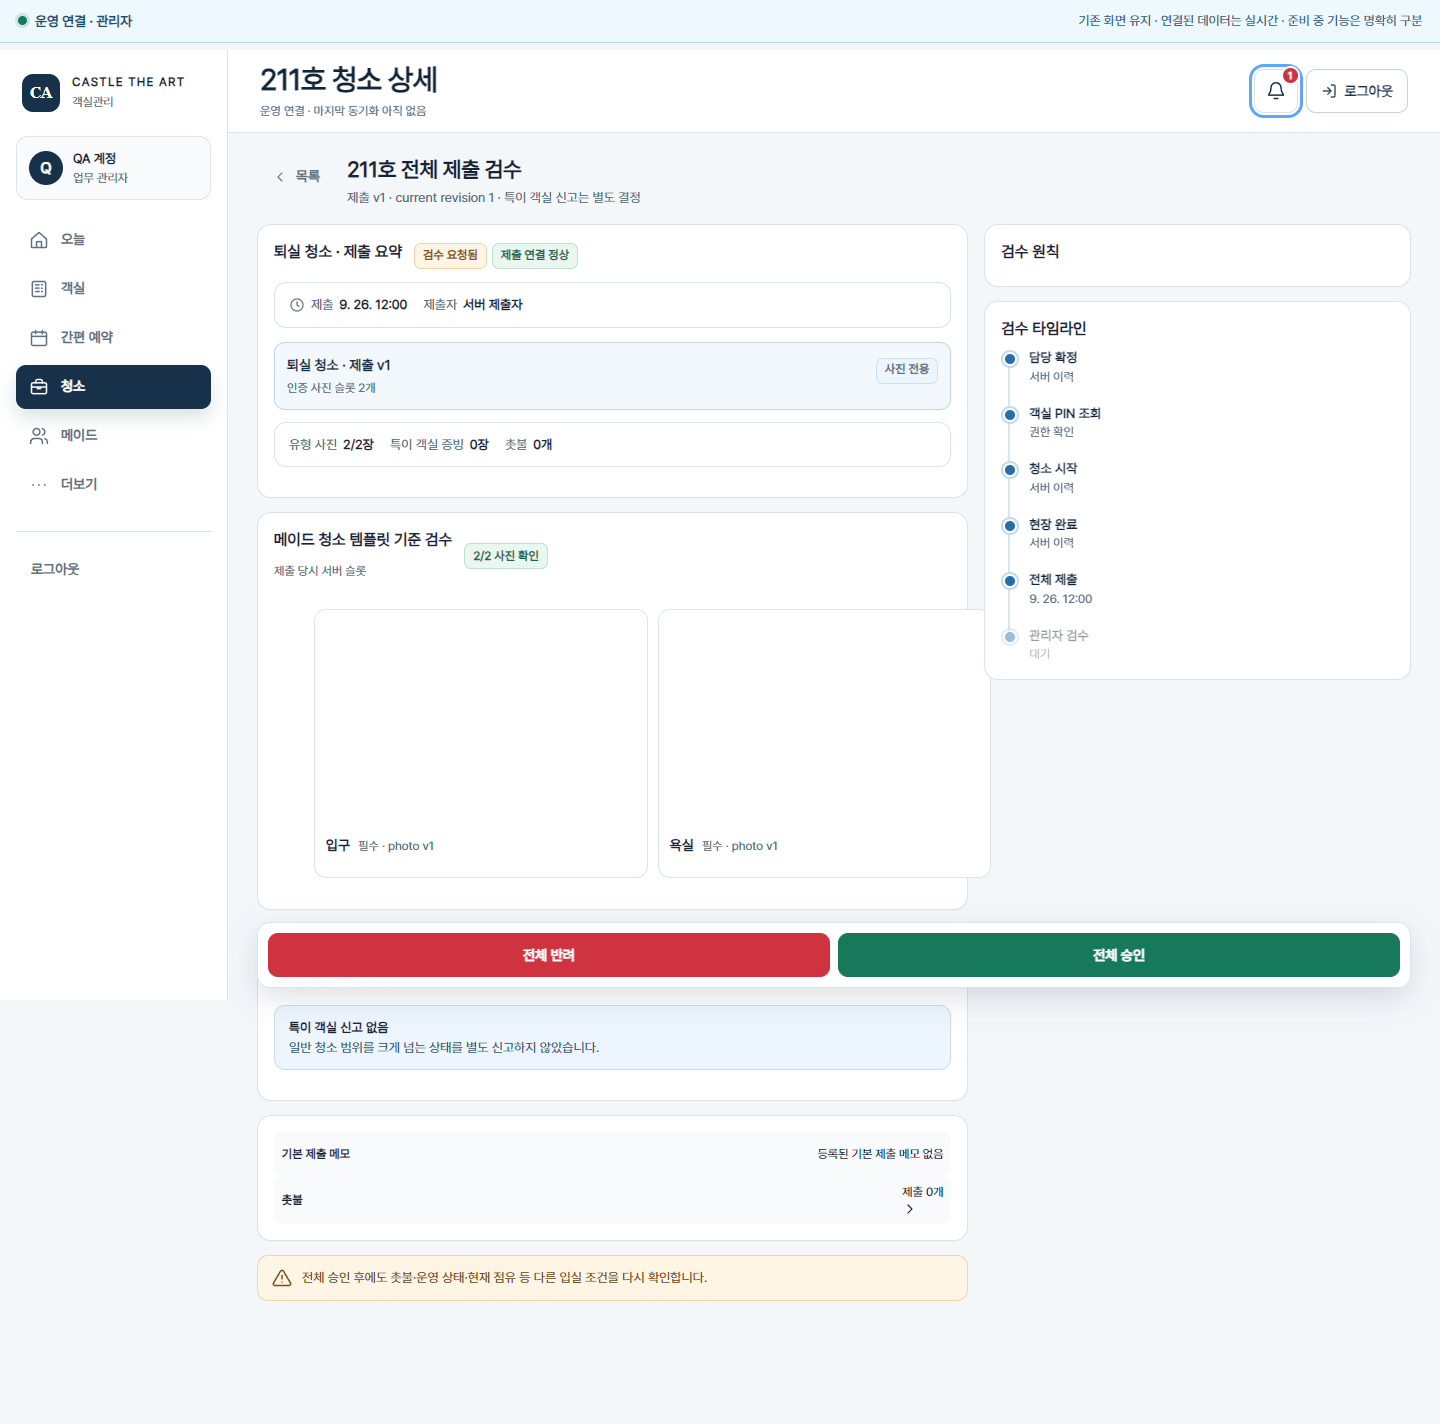
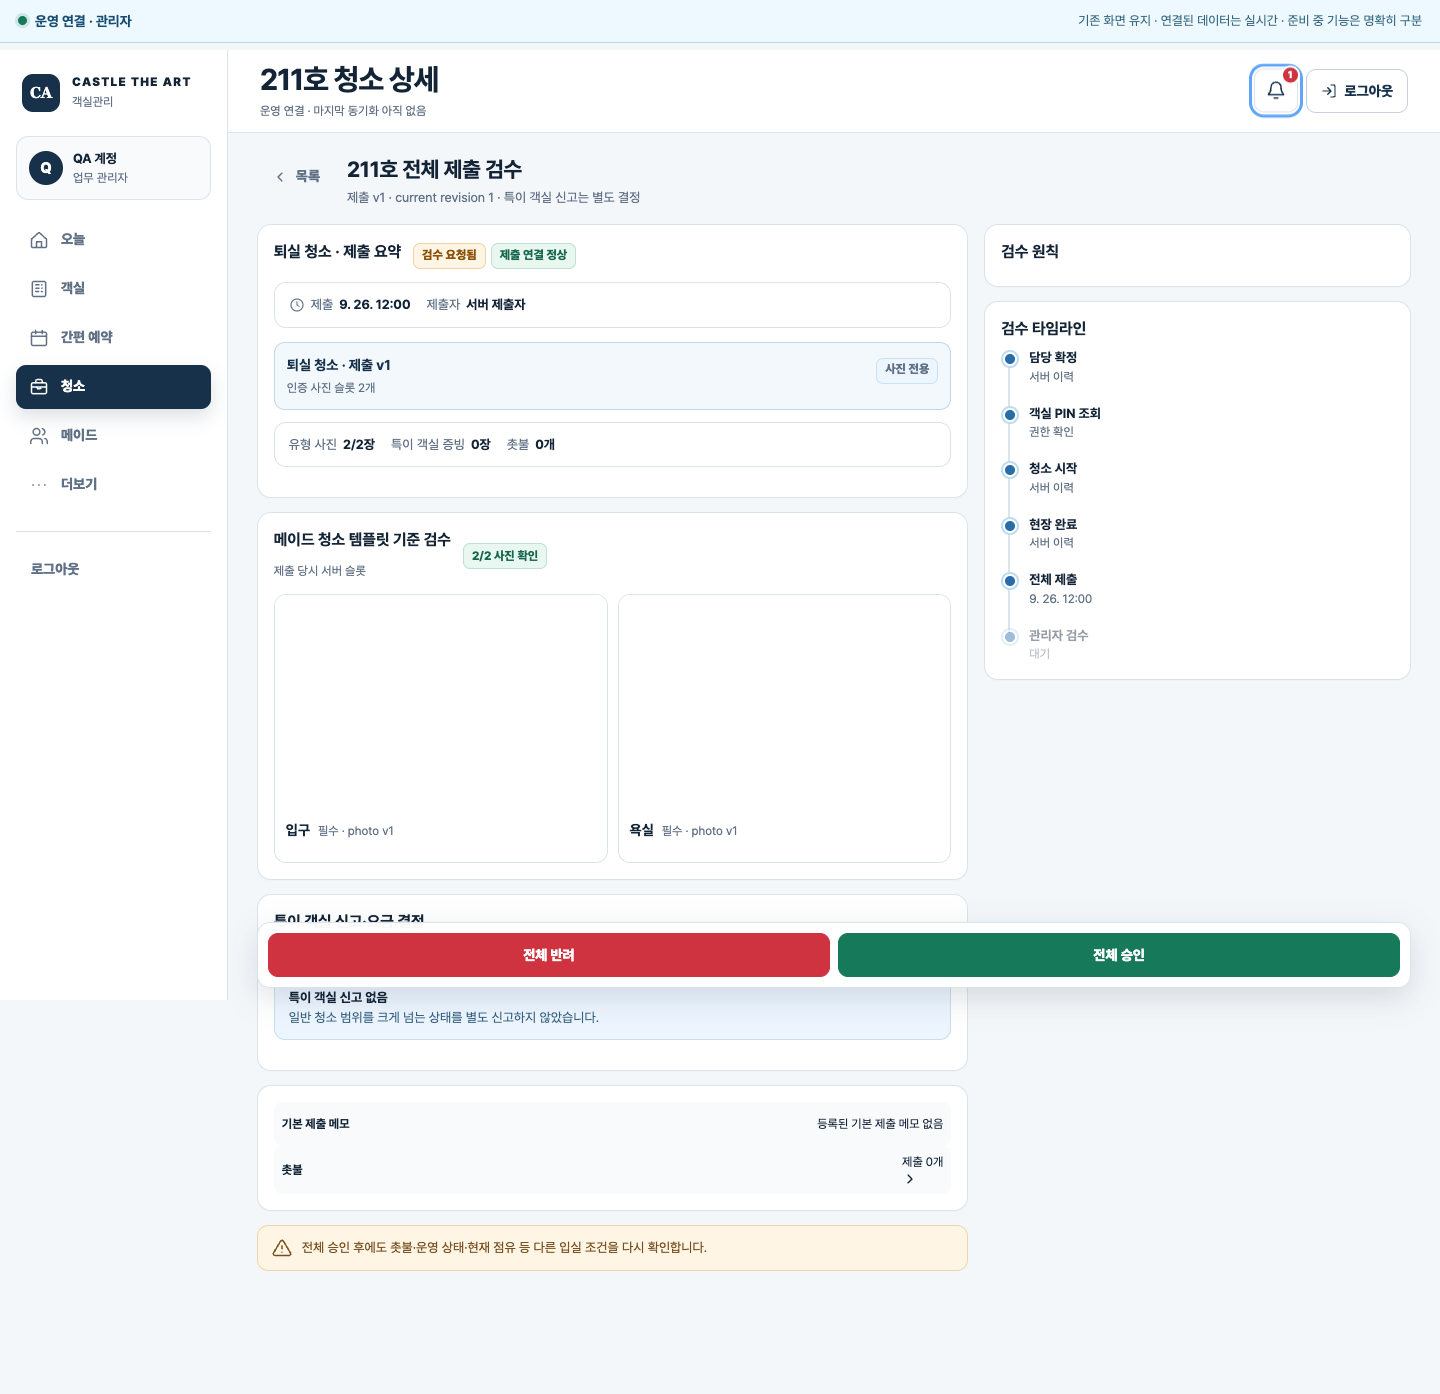
fix: 검수 사진 모바일 넘침 방지

diff --git a/WIREFRAME/index.html b/WIREFRAME/index.html
@@ -1008,7 +1008,7 @@
     .history-photo-expired { display:grid; place-items:center; min-height:170px; padding:22px; border:1px dashed var(--line-strong); border-radius:12px; color:var(--muted); background:var(--surface-soft); text-align:center; }
     .history-photo-expired strong,.history-photo-expired span { display:block; }
     .history-photo-expired span { margin-top:4px; font-size:12px; }
-    .inspection-photo { display:block; width:100%; min-width:0; overflow:hidden; padding:0; border:1px solid var(--line); border-radius:12px; color:var(--ink); background:#fff; text-align:left; }
+    .inspection-photo { display:block; width:100%; min-width:0; overflow:hidden; margin:0; padding:0; border:1px solid var(--line); border-radius:12px; color:var(--ink); background:#fff; text-align:left; }
     .inspection-photo > svg, .inspection-photo > img { display:block; width:100%; aspect-ratio:1.62/1; object-fit:cover; background:#edf2f6; }
     .inspection-photo-copy { display:flex; align-items:center; gap:8px; min-height:62px; padding:10px 11px; }
     .inspection-photo-copy > span:first-child { width:100%; min-width:0; flex:1; }

diff --git a/WIREFRAME/sw.js b/WIREFRAME/sw.js
@@ -1,6 +1,6 @@
 "use strict";
 
-const SW_VERSION = "2026-09-23-6";
+const SW_VERSION = "2026-09-26-1";
 const CACHE_PREFIX = "castle-the-art-shell-";
 const CACHE_NAME = `${CACHE_PREFIX}${SW_VERSION}`;
 const APP_DOCUMENT_URL = new URL("./index.html", self.location.href);

diff --git a/WIREFRAME/QA.md b/WIREFRAME/QA.md
@@ -15,6 +15,17 @@
 
 > 2026-08-16 이후 타입별 기본 청소요금은 시트 값 `16,000 / 20,000 / 20,000 / 30,000원`이 운영 정본이다. 이전 임시 금액을 사용한 기록과 PNG는 현재 단가 검증 근거가 아니며, 아래 `재검증 예정` 기대값을 실제 브라우저에서 다시 확인한 뒤 새 증거로 교체해야 한다.
 
+## 추가 검증 · PR #192 검수 사진 URL 수명주기와 모바일 폭
+
+2026-09-26 PR #192를 최신 `dev`에 적용해 로컬 fixture와 Vercel Preview 운영 연결 화면을 함께 확인했다. 검수 사진 원문이나 URL은 저장·로그에 남기지 않았고 승인·반려 등 운영 mutation은 실행하지 않았다.
+
+| 검증 | 결과 | 실제 확인 내용 |
+|---|---|---|
+| 사진 URL 수명주기 | PASS | 관리자 검수 상세의 사진 Blob URL 11개가 실제 픽셀로 로드됐다. 운영 알림 모달을 열고 닫은 뒤에도 같은 URL과 픽셀이 유지됐고 사진 재조회도 발생하지 않았다. 검수 상세 이탈·세션 정리에서는 URL을 해제하는 로컬 회귀를 통과했다. |
+| 모바일 검수 상세 | PASS | 운영 데이터에서 `<figure>` 기본 좌우 여백 때문에 390px 문서가 11px 넘치던 원인을 확인하고 `.inspection-photo { margin: 0; }`으로 보정했다. 360/390/768/1440px 가로 넘침 0px를 회귀로 고정했다. |
+| 반응형·오류 | PASS | Chrome 153 + Playwright에서 검수 상세 네 너비와 사진 로드, 일반 모달 왕복, 승인·반려 fixture를 확인했다. console warning/error와 page error는 0건이었다. 대표 PNG는 `QA/screenshots/live-wireframe-inspection-detail-390.png`, `QA/screenshots/live-wireframe-inspection-detail-1440.png`이다. |
+| PWA 갱신 | PASS | 설치 앱의 새 HTML·스타일 반영을 위해 서비스 워커를 `2026-09-26-1`로 올렸다. Preview 재배포 뒤 고정 origin의 최신 worker와 화면을 다시 확인한다. |
+
 ## 문서 계약 갱신 · 사진 개별 업로드와 ZIP 폐기
 
 2026-09-23 사용자 결정에 따라 ZIP 생성·업로드·보관을 전부 폐기하고 사진 슬롯별 개별 업로드만 정본으로 확정했다. 앱이 열린 동안의 한 장씩 처리하는 메모리 큐, 디코딩 가능한 사진의 선택 직후 최적화, 고정 5초 전체 수신 제한 제거, 30초 무진행 idle, 5MiB 바이트 상한, `객실호수_YYYY-MM-DD` KST 비공개 Drive 폴더와 opaque 객체명을 `DOCS/19_ROOM_PIN_SHEET_CLEANING_HISTORY_DECISIONS.md`와 연동 문서에 반영했다.
